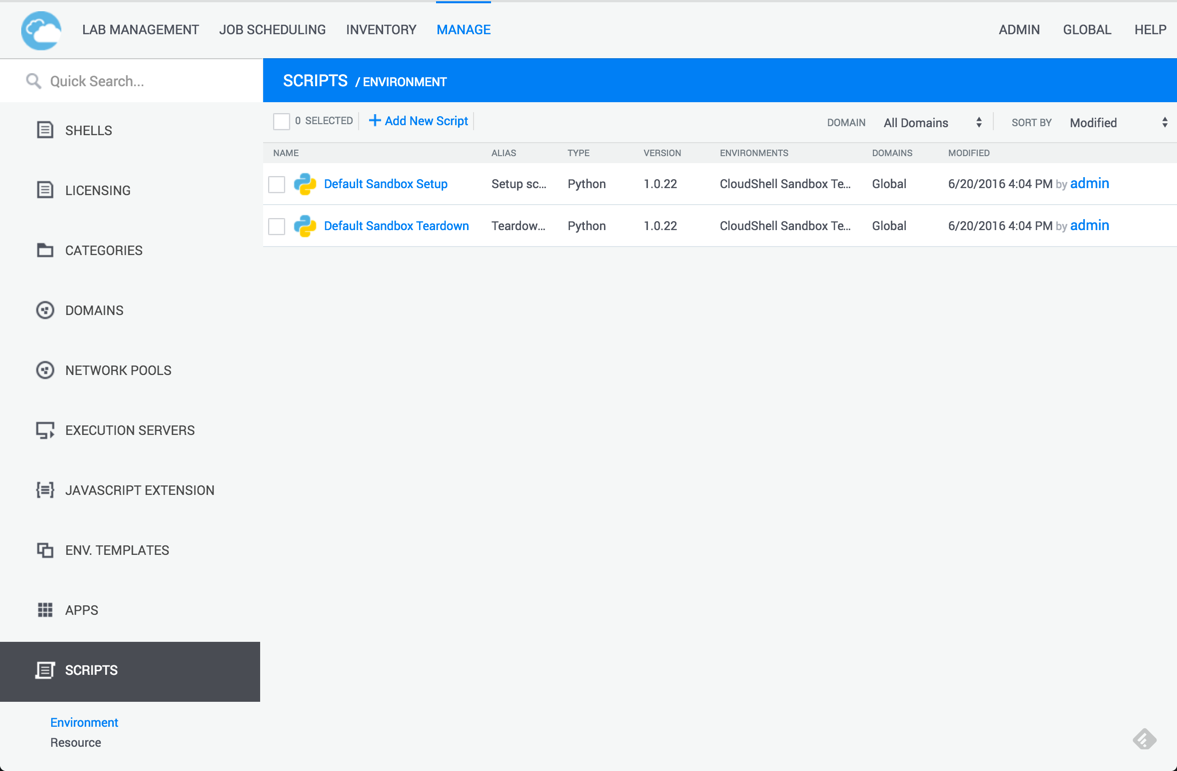
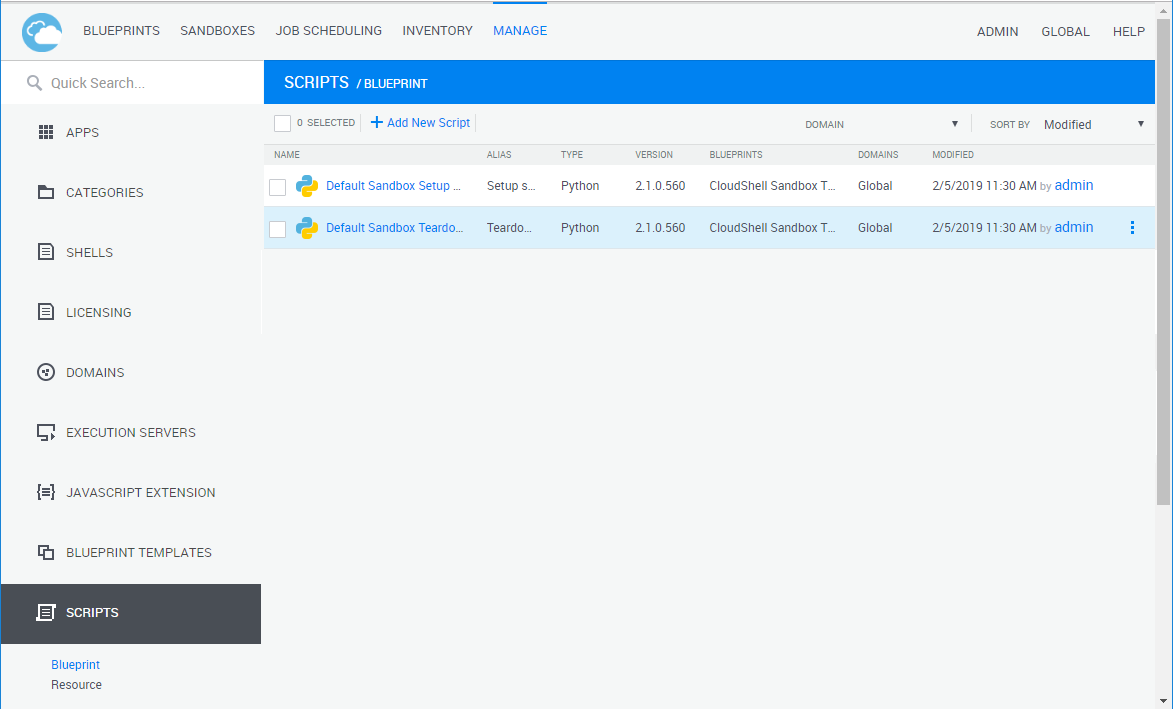
orchestration scripts updates
Getting started - new prerquisites section
-updated contents and images to use blueprint/sandbox terminology

diff --git a/_orchestration/8.3.0/getting-started.md b/_orchestration/8.3.0/getting-started.md
@@ -19,6 +19,12 @@ saving and restoring state, starting test traffic, running a failover scenarios 
 
 _**Before developing scripts, please familiarize yourself with CloudShell by taking [Quali U courses](http://courses.quali.com). These courses also include installation instructions for the CloudShell SDK package that deploys a developer edition of CloudShell on which you can perform your training and development activities.**_
 
+### Prerequisites
+* [Get CloudShell](http://info.quali.com/cloudshell-developer-edition-download): Download the latest CloudShell SDK and run it on your machine. 
+* [Python](https://www.python.org/downloads/): Make sure Python 2.7.x (latest recommended) is installed on your machine.
+* **IDE/Text Editor:** Your preferred IDE editor. We recommend using PyCharm (which offers a free community edition) because of the tooling we’ve already created for that IDE, including a CloudShell developer plugin.
+
+
 ### Creating and using orchestration scripts in CloudShell
 
 This procedure shows the basic steps for creating and using orchestration scripts in CloudShell.
@@ -46,35 +52,38 @@ Save the file and give it any name, for example 'hello.py'.
 
 ### Uploading the orchestration script to CloudShell
 
-In CloudShell portal, open the Manage dashboard. In the left sidebar, click _Scripts_ and select the _Environment_ option.
+In CloudShell Portal, open the **Manage** dashboard. In the left sidebar, click **Scripts** and select the **Blueprint** option.
 The page should be similar to this:
 
 ![Scripts Management Page]({{ site.baseurl}}/assets/environment_scripts.png){:class="img-responsive"}
 
-Click the ‘Add New Script’ button to fill in some basic details on your script and upload it to CloudShell.
-For now, just provide a name for the script, click _Browse_ to upload your script and finally hit click _Save_ to seal the deal. Your script is now in CloudShell, all we need now is a blueprint where it can work its magic.
+Click the **Add New Script** button and browse for the script. Once the script is uploaded, click **Edit**. 
+For now, just provide a name for the script (the script's file name is the default). 
+
+And click **Save** to seal the deal. Your script is now in CloudShell, all we need now is a blueprint where it can work its magic.
 
 ### Attaching the script to an environment
 
-Open the _Lab Management_ dashboard and select _Environments_. Click _Add New_. A new environment will be created and you’ll be taken to the environment workspace.
+Open the **Blueprints** dashboard. Click **Add New**. A new blueprint will be created and you’ll be taken to the blueprint's workspace.
 
-Take a second to name your environment, you can do that by clicking on the name next to the pencil icon.
-Then click on the environment drop down menu to select _Properties_ that is where we’ll connect our new script.
+Take a second to name your blueprint, you can do that by clicking the name next to the pencil icon.
 
-The last stop is the properties page. Here we’ll simply click the ‘Add Script’ button to assign our new script to the environment
-and click the ‘Update’ button at the bottom of the page. That’s it! Our script is ready to be used. However, in order to run
-it we’ll need to make our environment go live by creating a reservation. Click the ‘Reserve’ button to create a sandbox
-from the environment blueprint. Now, to run the script.
+The last stop is the properties page. This is where we’ll connect our new script. Click the **Blueprint** drop down menu and select **Properties**. 
 
-### Executing the script on the sandbox.
+Here we’ll simply click the **Add Script** button to assign our new script to the environment
+and click the **Update’** button at the bottom of the page. That’s it! Our script is ready to be used. However, in order to run it, we’ll need to make our blueprint go live by creating a reservation. Click the **Reserve** button to create a sandbox
+from the environment blueprint. Next, let's run the script.
 
-Click the _Commands_ button on the toolbar to open the environment commands side-pane.
-Click the ‘Play’ icon next to the command to launch it!
+### Executing the script in the sandbox.
 
-If the command executed successfully you should see a checkmark appear next to the command name and the output pane
+Click the **Commands** button on the toolbar to open the **Blueprint Commands** side-pane.
+
+Click the **Run** icon next to the command to launch it!
+
+If the command executed successfully you should see a checkmark appear next to the command name and the **Output** pane
 will display the command output.
 
-![Scripts Management Page]({{ site.baseurl}}/assets/run_script.png){:class="img-responsive"}
+![Scripts Management Page]({{ site.baseurl}}/assets/run_script_8.0.png){:class="img-responsive"}
 
-In the scope of this simple tutorial, we’ve seen how to link a trivial Python script with a CloudShell environment.
-We'll look into more concrete example and nuances in later sections of the guide.
+In the scope of this simple tutorial, we’ve seen how to link a trivial Python script with a CloudShell blueprint.
+We'll look into more concrete examples and nuances in later sections of the guide.

diff --git a/_orchestration/8.2.0/getting-started.md b/_orchestration/8.2.0/getting-started.md
@@ -19,6 +19,11 @@ saving and restoring state, starting test traffic, running a failover scenarios 
 
 _**Before developing scripts, please familiarize yourself with CloudShell by taking [Quali U courses](http://courses.quali.com). These courses also include installation instructions for the CloudShell SDK package that deploys a developer edition of CloudShell on which you can perform your training and development activities.**_
 
+### Prerequisites
+* [Get CloudShell](http://info.quali.com/cloudshell-developer-edition-download): Download the latest CloudShell SDK and run it on your machine. 
+* [Python](https://www.python.org/downloads/): Make sure Python 2.7.x (latest recommended) is installed on your machine.
+* **IDE/Text Editor:** Your preferred IDE editor. We recommend using PyCharm (which offers a free community edition) because of the tooling we’ve already created for that IDE, including a CloudShell developer plugin.
+
 ### Creating and using orchestration scripts in CloudShell
 
 This procedure shows the basic steps for creating and using orchestration scripts in CloudShell.
@@ -46,35 +51,38 @@ Save the file and give it any name, for example 'hello.py'.
 
 ### Uploading the orchestration script to CloudShell
 
-In CloudShell portal, open the Manage dashboard. In the left sidebar, click _Scripts_ and select the _Environment_ option.
+In CloudShell Portal, open the **Manage** dashboard. In the left sidebar, click **Scripts** and select the **Blueprint** option.
 The page should be similar to this:
 
 ![Scripts Management Page]({{ site.baseurl}}/assets/environment_scripts.png){:class="img-responsive"}
 
-Click the ‘Add New Script’ button to fill in some basic details on your script and upload it to CloudShell.
-For now, just provide a name for the script, click _Browse_ to upload your script and finally hit click _Save_ to seal the deal. Your script is now in CloudShell, all we need now is a blueprint where it can work its magic.
+Click the **Add New Script** button and browse for the script. Once the script is uploaded, click **Edit**. 
+For now, just provide a name for the script (the script's file name is the default). 
+
+And click **Save** to seal the deal. Your script is now in CloudShell, all we need now is a blueprint where it can work its magic.
 
 ### Attaching the script to an environment
 
-Open the _Lab Management_ dashboard and select _Environments_. Click _Add New_. A new environment will be created and you’ll be taken to the environment workspace.
+Open the **Blueprints** dashboard. Click **Add New**. A new blueprint will be created and you’ll be taken to the blueprint's workspace.
 
-Take a second to name your environment, you can do that by clicking on the name next to the pencil icon.
-Then click on the environment drop down menu to select _Properties_ that is where we’ll connect our new script.
+Take a second to name your blueprint, you can do that by clicking the name next to the pencil icon.
 
-The last stop is the properties page. Here we’ll simply click the ‘Add Script’ button to assign our new script to the environment
-and click the ‘Update’ button at the bottom of the page. That’s it! Our script is ready to be used. However, in order to run
-it we’ll need to make our environment go live by creating a reservation. Click the ‘Reserve’ button to create a sandbox
-from the environment blueprint. Now, to run the script.
+The last stop is the properties page. This is where we’ll connect our new script. Click the **Blueprint** drop down menu and select **Properties**. 
 
-### Executing the script on the sandbox.
+Here we’ll simply click the **Add Script** button to assign our new script to the environment
+and click the **Update’** button at the bottom of the page. That’s it! Our script is ready to be used. However, in order to run it, we’ll need to make our blueprint go live by creating a reservation. Click the **Reserve** button to create a sandbox
+from the environment blueprint. Next, let's run the script.
 
-Click the _Commands_ button on the toolbar to open the environment commands side-pane.
-Click the ‘Play’ icon next to the command to launch it!
+### Executing the script in the sandbox.
 
-If the command executed successfully you should see a checkmark appear next to the command name and the output pane
+Click the **Commands** button on the toolbar to open the **Blueprint Commands** side-pane.
+
+Click the **Run** icon next to the command to launch it!
+
+If the command executed successfully you should see a checkmark appear next to the command name and the **Output** pane
 will display the command output.
 
-![Scripts Management Page]({{ site.baseurl}}/assets/run_script.png){:class="img-responsive"}
+![Scripts Management Page]({{ site.baseurl}}/assets/run_script_8.0.png){:class="img-responsive"}
 
-In the scope of this simple tutorial, we’ve seen how to link a trivial Python script with a CloudShell environment.
-We'll look into more concrete example and nuances in later sections of the guide.
+In the scope of this simple tutorial, we’ve seen how to link a trivial Python script with a CloudShell blueprint.
+We'll look into more concrete examples and nuances in later sections of the guide.

diff --git a/_orchestration/9.0.0/getting-started.md b/_orchestration/9.0.0/getting-started.md
@@ -19,6 +19,11 @@ saving and restoring state, starting test traffic, running a failover scenarios 
 
 _**Before developing scripts, please familiarize yourself with CloudShell by taking [Quali U courses](http://courses.quali.com). These courses also include installation instructions for the CloudShell SDK package that deploys a developer edition of CloudShell on which you can perform your training and development activities.**_
 
+### Prerequisites
+* [Get CloudShell](http://info.quali.com/cloudshell-developer-edition-download): Download the latest CloudShell SDK and run it on your machine. 
+* [Python](https://www.python.org/downloads/): Make sure Python 2.7.x (latest recommended) is installed on your machine.
+* **IDE/Text Editor:** Your preferred IDE editor. We recommend using PyCharm (which offers a free community edition) because of the tooling we’ve already created for that IDE, including a CloudShell developer plugin.
+
 ### Creating and using orchestration scripts in CloudShell
 
 This procedure shows the basic steps for creating and using orchestration scripts in CloudShell.
@@ -46,35 +51,38 @@ Save the file and give it any name, for example 'hello.py'.
 
 ### Uploading the orchestration script to CloudShell
 
-In CloudShell portal, open the Manage dashboard. In the left sidebar, click _Scripts_ and select the _Environment_ option.
+In CloudShell Portal, open the **Manage** dashboard. In the left sidebar, click **Scripts** and select the **Blueprint** option.
 The page should be similar to this:
 
 ![Scripts Management Page]({{ site.baseurl}}/assets/environment_scripts.png){:class="img-responsive"}
 
-Click the ‘Add New Script’ button to fill in some basic details on your script and upload it to CloudShell.
-For now, just provide a name for the script, click _Browse_ to upload your script and finally hit click _Save_ to seal the deal. Your script is now in CloudShell, all we need now is a blueprint where it can work its magic.
+Click the **Add New Script** button and browse for the script. Once the script is uploaded, click **Edit**. 
+For now, just provide a name for the script (the script's file name is the default). 
+
+And click **Save** to seal the deal. Your script is now in CloudShell, all we need now is a blueprint where it can work its magic.
 
 ### Attaching the script to an environment
 
-Open the _Lab Management_ dashboard and select _Environments_. Click _Add New_. A new environment will be created and you’ll be taken to the environment workspace.
+Open the **Blueprints** dashboard. Click **Add New**. A new blueprint will be created and you’ll be taken to the blueprint's workspace.
 
-Take a second to name your environment, you can do that by clicking on the name next to the pencil icon.
-Then click on the environment drop down menu to select _Properties_ that is where we’ll connect our new script.
+Take a second to name your blueprint, you can do that by clicking the name next to the pencil icon.
 
-The last stop is the properties page. Here we’ll simply click the ‘Add Script’ button to assign our new script to the environment
-and click the ‘Update’ button at the bottom of the page. That’s it! Our script is ready to be used. However, in order to run
-it we’ll need to make our environment go live by creating a reservation. Click the ‘Reserve’ button to create a sandbox
-from the environment blueprint. Now, to run the script.
+The last stop is the properties page. This is where we’ll connect our new script. Click the **Blueprint** drop down menu and select **Properties**. 
 
-### Executing the script on the sandbox.
+Here we’ll simply click the **Add Script** button to assign our new script to the environment
+and click the **Update’** button at the bottom of the page. That’s it! Our script is ready to be used. However, in order to run it, we’ll need to make our blueprint go live by creating a reservation. Click the **Reserve** button to create a sandbox
+from the environment blueprint. Next, let's run the script.
 
-Click the _Commands_ button on the toolbar to open the environment commands side-pane.
-Click the ‘Play’ icon next to the command to launch it!
+### Executing the script in the sandbox.
 
-If the command executed successfully you should see a checkmark appear next to the command name and the output pane
+Click the **Commands** button on the toolbar to open the **Blueprint Commands** side-pane.
+
+Click the **Run** icon next to the command to launch it!
+
+If the command executed successfully you should see a checkmark appear next to the command name and the **Output** pane
 will display the command output.
 
-![Scripts Management Page]({{ site.baseurl}}/assets/run_script.png){:class="img-responsive"}
+![Scripts Management Page]({{ site.baseurl}}/assets/run_script_8.0.png){:class="img-responsive"}
 
-In the scope of this simple tutorial, we’ve seen how to link a trivial Python script with a CloudShell environment.
-We'll look into more concrete example and nuances in later sections of the guide.
+In the scope of this simple tutorial, we’ve seen how to link a trivial Python script with a CloudShell blueprint.
+We'll look into more concrete examples and nuances in later sections of the guide.

diff --git a/_orchestration/9.1.0/getting-started.md b/_orchestration/9.1.0/getting-started.md
@@ -19,6 +19,12 @@ saving and restoring state, starting test traffic, running a failover scenarios 
 
 _**Before developing scripts, please familiarize yourself with CloudShell by taking [Quali U courses](http://courses.quali.com). These courses also include installation instructions for the CloudShell SDK package that deploys a developer edition of CloudShell on which you can perform your training and development activities.**_
 
+### Prerequisites
+* [Get CloudShell](http://info.quali.com/cloudshell-developer-edition-download): Download the latest CloudShell SDK and run it on your machine. 
+* [Python](https://www.python.org/downloads/): Make sure Python 2.7.x (latest recommended) is installed on your machine.
+* **IDE/Text Editor:** Your preferred IDE editor. We recommend using PyCharm (which offers a free community edition) because of the tooling we’ve already created for that IDE, including a CloudShell developer plugin.
+
+
 ### Creating and using orchestration scripts in CloudShell
 
 This procedure shows the basic steps for creating and using orchestration scripts in CloudShell.
@@ -46,35 +52,38 @@ Save the file and give it any name, for example 'hello.py'.
 
 ### Uploading the orchestration script to CloudShell
 
-In CloudShell portal, open the Manage dashboard. In the left sidebar, click _Scripts_ and select the _Environment_ option.
+In CloudShell Portal, open the **Manage** dashboard. In the left sidebar, click **Scripts** and select the **Blueprint** option.
 The page should be similar to this:
 
 ![Scripts Management Page]({{ site.baseurl}}/assets/environment_scripts.png){:class="img-responsive"}
 
-Click the ‘Add New Script’ button to fill in some basic details on your script and upload it to CloudShell.
-For now, just provide a name for the script, click _Browse_ to upload your script and finally hit click _Save_ to seal the deal. Your script is now in CloudShell, all we need now is a blueprint where it can work its magic.
+Click the **Add New Script** button and browse for the script. Once the script is uploaded, click **Edit**. 
+For now, just provide a name for the script (the script's file name is the default). 
+
+And click **Save** to seal the deal. Your script is now in CloudShell, all we need now is a blueprint where it can work its magic.
 
 ### Attaching the script to an environment
 
-Open the _Lab Management_ dashboard and select _Environments_. Click _Add New_. A new environment will be created and you’ll be taken to the environment workspace.
+Open the **Blueprints** dashboard. Click **Add New**. A new blueprint will be created and you’ll be taken to the blueprint's workspace.
 
-Take a second to name your environment, you can do that by clicking on the name next to the pencil icon.
-Then click on the environment drop down menu to select _Properties_ that is where we’ll connect our new script.
+Take a second to name your blueprint, you can do that by clicking the name next to the pencil icon.
 
-The last stop is the properties page. Here we’ll simply click the ‘Add Script’ button to assign our new script to the environment
-and click the ‘Update’ button at the bottom of the page. That’s it! Our script is ready to be used. However, in order to run
-it we’ll need to make our environment go live by creating a reservation. Click the ‘Reserve’ button to create a sandbox
-from the environment blueprint. Now, to run the script.
+The last stop is the properties page. This is where we’ll connect our new script. Click the **Blueprint** drop down menu and select **Properties**. 
 
-### Executing the script on the sandbox.
+Here we’ll simply click the **Add Script** button to assign our new script to the environment
+and click the **Update’** button at the bottom of the page. That’s it! Our script is ready to be used. However, in order to run it, we’ll need to make our blueprint go live by creating a reservation. Click the **Reserve** button to create a sandbox
+from the environment blueprint. Next, let's run the script.
 
-Click the _Commands_ button on the toolbar to open the environment commands side-pane.
-Click the ‘Play’ icon next to the command to launch it!
+### Executing the script in the sandbox.
 
-If the command executed successfully you should see a checkmark appear next to the command name and the output pane
+Click the **Commands** button on the toolbar to open the **Blueprint Commands** side-pane.
+
+Click the **Run** icon next to the command to launch it!
+
+If the command executed successfully you should see a checkmark appear next to the command name and the **Output** pane
 will display the command output.
 
 ![Scripts Management Page]({{ site.baseurl}}/assets/run_script.png){:class="img-responsive"}
 
-In the scope of this simple tutorial, we’ve seen how to link a trivial Python script with a CloudShell environment.
-We'll look into more concrete example and nuances in later sections of the guide.
+In the scope of this simple tutorial, we’ve seen how to link a trivial Python script with a CloudShell blueprint.
+We'll look into more concrete examples and nuances in later sections of the guide.
